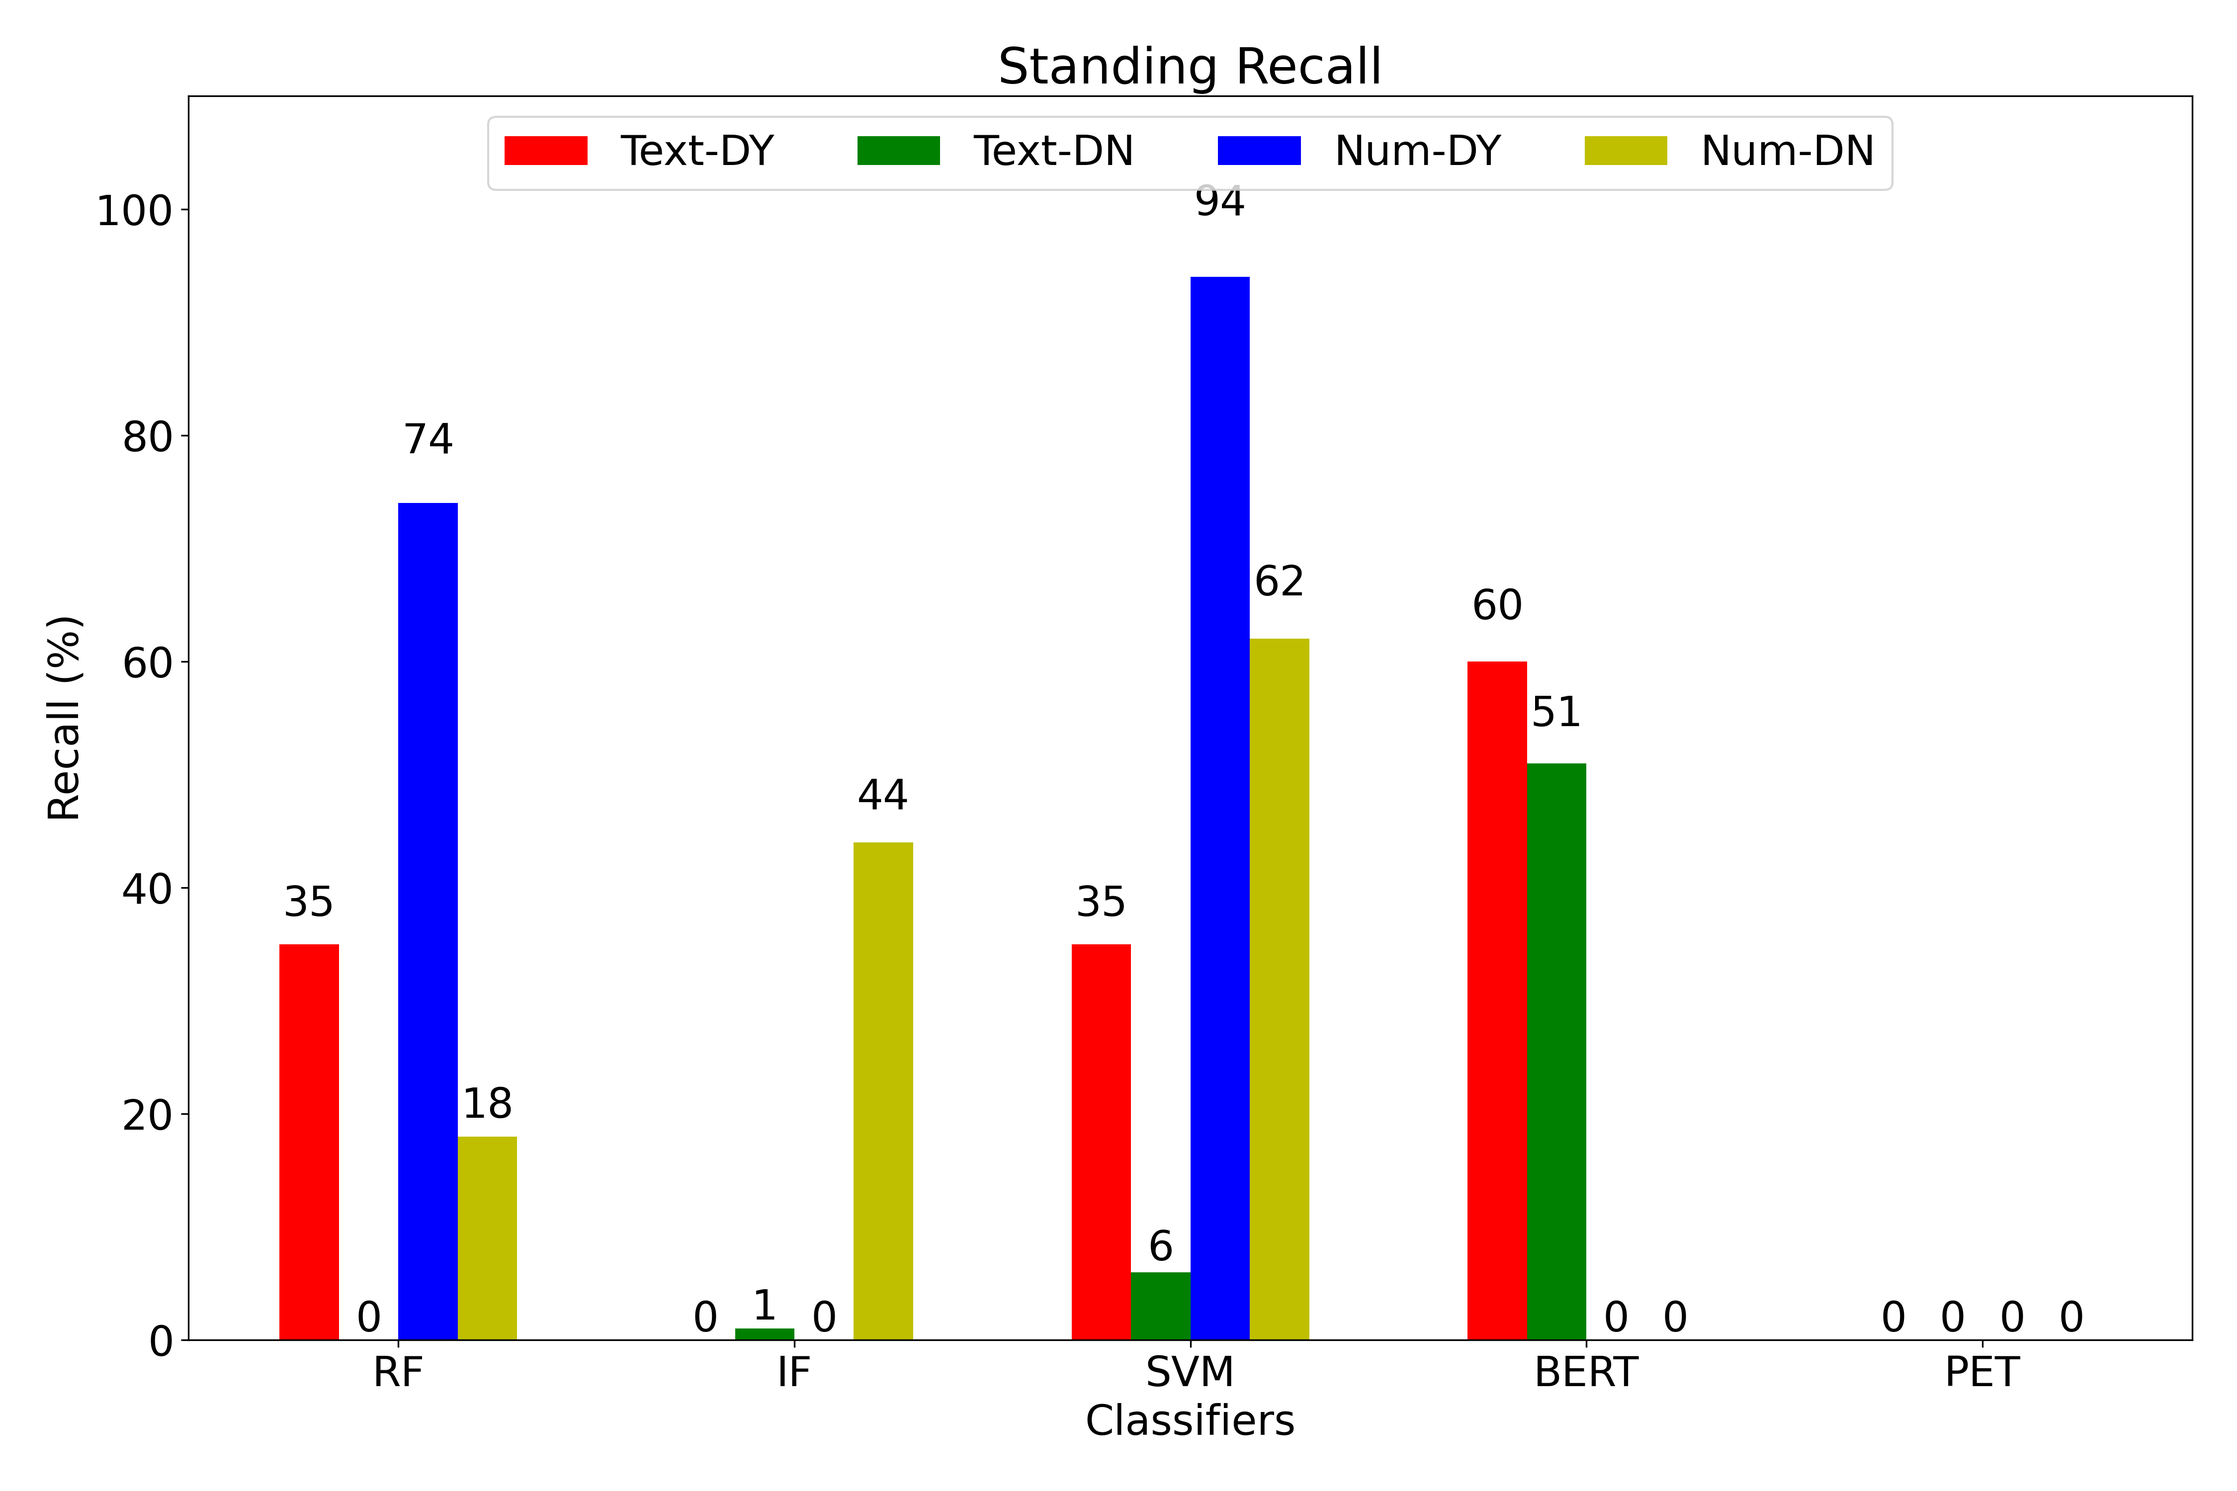
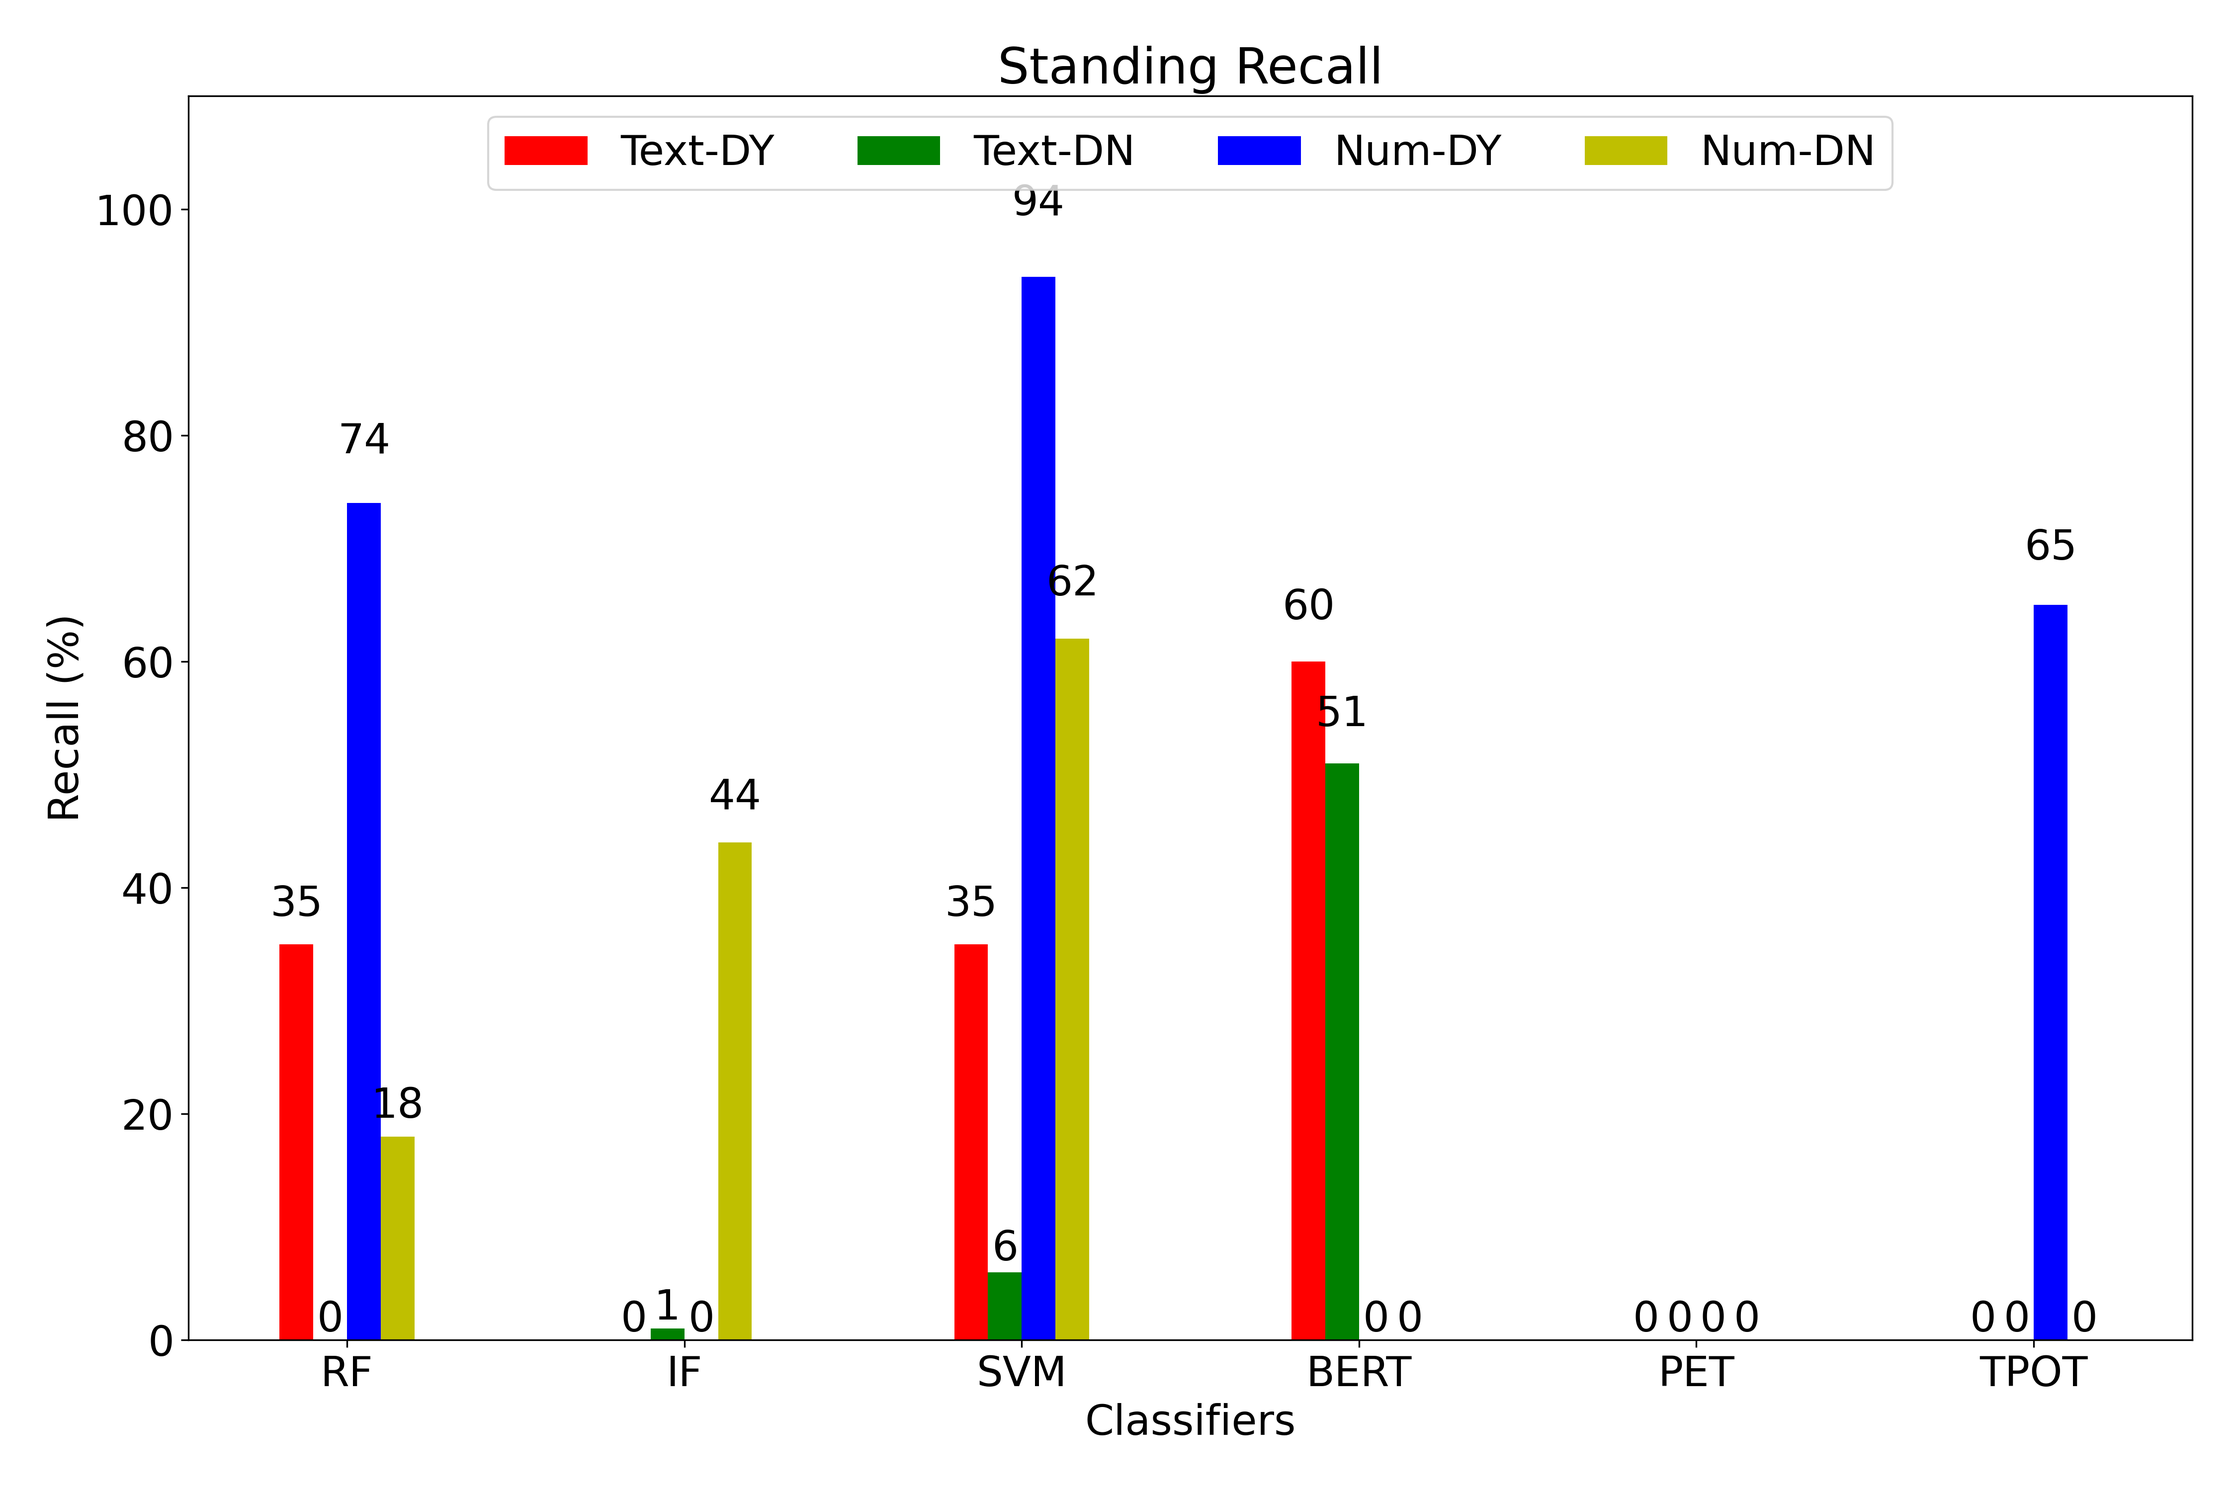
results for tpot

diff --git a/main.py b/main.py
@@ -2,9 +2,9 @@ import numpy as np
 import pandas as pd
 import argparse, json, pickle
 from collections import Counter
-from utils import DataLoader, Classifier
 from team_themes import TeamStanding, TeamStreak
 from bert_utils import BertDataLoader, BertThemeClassifier
+from utils import DataLoader, Classifier, TpotThemeClassifier
 from transformers import AutoModelForSequenceClassification
 from sklearn.metrics import accuracy_score, f1_score, fbeta_score, precision_score, recall_score, classification_report
 
@@ -74,9 +74,9 @@ def main(FTR='text', CLF='rf', THEME='streak', DOWNSAMPLE=False, SAVE_TO_DISK=Fa
 
         if CLF == 'bert':
             print('Training BERT model...')
-            trained_model, tokenizer = clf_obj.train(dataset)
+            model, tokenizer = clf_obj.train(dataset)
             model_path = f"models/{THEME}/{CLF}-down_{'yes' if DOWNSAMPLE else 'no'}"
-            trained_model.save_pretrained(model_path)
+            model.save_pretrained(model_path)
             tokenizer.save_pretrained(model_path)
             print(f'Saved model to {model_path}')
 
@@ -91,8 +91,15 @@ def main(FTR='text', CLF='rf', THEME='streak', DOWNSAMPLE=False, SAVE_TO_DISK=Fa
         print(Counter(test_pred))
 
     else:
-        clf_obj = Classifier(CLF)
-        dl_obj = DataLoader(ftr_type=FTR, downsample=DOWNSAMPLE)
+        if CLF == 'tpot':
+            print('This is using tpot model...')
+            assert FTR == 'num', 'TPOT only works with numerical features'
+            assert DOWNSAMPLE == True, 'TPOT only works with downsampling (as of now)'
+            clf_obj = TpotThemeClassifier(theme=THEME)
+            dl_obj = DataLoader(ftr_type=FTR, downsample=DOWNSAMPLE)
+        else:
+            clf_obj = Classifier(CLF)
+            dl_obj = DataLoader(ftr_type=FTR, downsample=DOWNSAMPLE)
 
         train_x, train_y, val_x, val_y, test_x, test_y = dl_obj.prep_data(all_data)
         print(f"Train: {train_x.shape} {train_y.shape}\tVal: {val_x.shape} {val_y.shape}\tTest: {test_x.shape} {test_y.shape}")
@@ -107,12 +114,11 @@ def main(FTR='text', CLF='rf', THEME='streak', DOWNSAMPLE=False, SAVE_TO_DISK=Fa
         pickle.dump(model, open(f'models/{THEME}/{CLF}-{FTR}-down_{"yes" if DOWNSAMPLE else "no"}.pkl', 'wb'))
 
         print('Predicting...')
-        # val_pred = clf_obj.predict(model, val_x)
-        test_pred = clf_obj.predict(model, test_x)
+        trained_model = pickle.load(open(f'models/{THEME}/{CLF}-{FTR}-down_{"yes" if DOWNSAMPLE else "no"}.pkl', 'rb'))
+        test_pred = clf_obj.predict(trained_model, test_x)
 
     np.save(open(f'preds/{THEME}/{CLF}-{FTR}-down_{"yes" if DOWNSAMPLE else "no"}.npy', 'wb'), test_pred)
     print('Calculating performance...')
-    # val_res_dict, val_clf_report = clf_obj.get_clf_report(val_y, val_pred)
     test_res_dict, test_clf_report = get_clf_report(test_y, test_pred)
 
     test_res = {}
@@ -122,8 +128,6 @@ def main(FTR='text', CLF='rf', THEME='streak', DOWNSAMPLE=False, SAVE_TO_DISK=Fa
             "test": {f"{k}": v for k, v in dict(Counter(test_y)).items()}
         }
 
-    # print(f'Validation results: {val_res_dict}')
-    # print(f'Validation classification report: {val_clf_report}')
     print(f'Test results: {test_res_dict}')
     print(f'Test classification report: {test_clf_report}')
 
@@ -133,17 +137,18 @@ def main(FTR='text', CLF='rf', THEME='streak', DOWNSAMPLE=False, SAVE_TO_DISK=Fa
 
 if __name__ == "__main__":
     argParser = argparse.ArgumentParser()
+    argParser.add_argument("-std", "--std", help="save data to disk", action="store_true")
+    argParser.add_argument("-down", "--down", help="do downsampling", action="store_true")
+    argParser.add_argument("-aug", "--aug", help="augment data for pet training", action="store_true")
     argParser.add_argument("-ftr", "--ftr", help="feature type: numerical or textual", default="text", choices=["text", "num"])
-    argParser.add_argument("-clf", "--clf", help="classification algorithm", default="rf", choices=["rf", "svm", "bert", "if", "pet"])
-    argParser.add_argument("-do_down", "--do_down", help="do downsampling", action="store_true")
+    argParser.add_argument("-clf", "--clf", help="classification algorithm", default="rf", \
+                            choices=["rf", "svm", "bert", "if", "pet", 'tpot'])
     argParser.add_argument("-theme", "--theme", help="across-event theme", default='standing', \
                             choices=['streak', 'standing', 'double', 'average'])
-    argParser.add_argument("-std", "--std", help="save data to disk", action="store_true")
-    argParser.add_argument("-aug", "--aug", help="augment data for pet training", action="store_true")
 
     args = argParser.parse_args()
     print(args)
 
-    main(args.ftr, args.clf, args.theme, args.do_down, args.std, args.aug)
+    main(args.ftr, args.clf, args.theme, args.down, args.std, args.aug)
     print("Done!!!")
 

diff --git a/tpot_main.py b/tpot_main.py
@@ -1,0 +1,81 @@
+import argparse
+from numpy import std
+import pandas as pd
+from utils import DataLoader
+from tpot import TPOTClassifier
+from collections import Counter
+from team_themes import TeamStanding, TeamStreak
+from sklearn.metrics import accuracy_score, f1_score, fbeta_score, precision_score, recall_score, classification_report
+
+
+def get_clf_report(true, pred):
+    mf1 = float(f"{f1_score(true, pred, average='macro'):.2f}")
+    acc = float(f"{accuracy_score(true, pred):.2f}")
+    f1 = float(f"{f1_score(true, pred):.2f}")
+    prec = float(f"{precision_score(true, pred):.2f}")
+    rec = float(f"{recall_score(true, pred):.2f}")
+    fbeta = float(f"{fbeta_score(true, pred, beta=2):.2f}")
+    return {
+        'mf1': mf1,
+        'acc': acc,
+        'f1': f1,
+        'prec': prec,
+        'rec': rec,
+        'fbeta': fbeta
+    }, classification_report(true, pred)
+
+
+def save_to_disk(train_x, train_y, val_x, val_y, test_x, test_y, THEME, DOWN=False):
+    print('Saving data to disk into csv...')
+    num_ftrs = train_x.shape[1]
+    train = pd.DataFrame({"text": train_x, "label": list(train_y)})
+    val = pd.DataFrame({"text": val_x, "label": list(val_y)})
+    test = pd.DataFrame({"text": test_x, "label": list(test_y)})
+    train = train.sample(frac=1, random_state=42).reset_index(drop=True)
+    val = val.sample(frac=1, random_state=42).reset_index(drop=True)
+    test = test.sample(frac=1, random_state=42).reset_index(drop=True)
+    train.to_csv(f'data/{THEME}/train_text{"_down" if DOWN else ""}.csv', index=False, header=False)
+    val.to_csv(f'data/{THEME}/validation_text{"_down" if DOWN else ""}.csv', index=False, header=False)
+    test.to_csv(f'data/{THEME}/test_text{"_down" if DOWN else ""}.csv', index=False, header=False)
+
+
+def main(THEME='streak', DOWN=False, STD=False):
+    FTR = 'num'
+    if THEME == 'streak':
+        theme_obj = TeamStreak(FTR)
+    elif THEME == 'standing':
+        theme_obj = TeamStanding(FTR)
+
+    print('Processing data...')
+    all_data, aug_texts = theme_obj.get_theme_train_val_test_data()
+    dl_obj = DataLoader(ftr_type=FTR, downsample=DOWN)
+    train_x, train_y, val_x, val_y, test_x, test_y = dl_obj.prep_data(all_data)
+    print(f"Train: {train_x.shape} {train_y.shape}\tVal: {val_x.shape} {val_y.shape}\tTest: {test_x.shape} {test_y.shape}")
+    print(Counter(train_y), Counter(val_y), Counter(test_y))
+
+    if STD:
+        # save_to_disk(train_x, train_y, val_x, val_y, test_x, test_y, THEME, DOWN)
+        return
+
+    print('Finding best classifier with TPOT...')
+    tpot = TPOTClassifier(generations=5, population_size=50, verbosity=2, random_state=42)
+    tpot.fit(train_x, train_y)
+    print(tpot.score(val_x, val_y))
+    tpot.export(f'tpot_exports/{THEME}{"_down" if DOWN else ""}.py')
+    print(tpot.score(test_x, test_y))
+
+    return "Done!!"
+
+
+if __name__ == "__main__":
+    argParser = argparse.ArgumentParser()
+    argParser.add_argument("-do_down", "--do_down", help="do downsampling", action="store_true")
+    argParser.add_argument("-theme", "--theme", help="across-event theme", default='standing', \
+                            choices=['streak', 'standing', 'double', 'average'])
+    argParser.add_argument("-std", "--std", help="save data to disk", action="store_true")
+
+    args = argParser.parse_args()
+    print(args)
+
+    main(args.theme, args.do_down, args.std)
+    print("Done!!!")

diff --git a/utils.py b/utils.py
@@ -15,7 +15,6 @@ class SentenceEmbedder:
         return self.encoder.encode(texts)
 
 
-
 class DataLoader:
     def __init__(self, ftr_type='text', downsample=False):
         self.ftr_type = ftr_type
@@ -88,3 +87,49 @@ class Classifier:
         else:
             return model.predict(X)
 
+
+class TpotThemeClassifier:
+    def __init__(self, theme='streak') -> None:
+        self.theme = theme
+    
+    def train_streak(self, X, y):
+        print('Training streak classifier...')
+        from sklearn.ensemble import RandomForestClassifier
+
+        exported_pipeline = RandomForestClassifier(bootstrap=True, criterion="gini", max_features=0.45, min_samples_leaf=13, min_samples_split=17, n_estimators=100)
+        # Fix random state in exported estimator
+        if hasattr(exported_pipeline, 'random_state'):
+            setattr(exported_pipeline, 'random_state', 42)
+        exported_pipeline.fit(X, y)
+        return exported_pipeline
+
+    def train_standing(self, X, y):
+        print('Training standing classifier...')
+        from sklearn.cluster import FeatureAgglomeration
+        from sklearn.ensemble import ExtraTreesClassifier
+        from sklearn.naive_bayes import GaussianNB
+        from sklearn.pipeline import make_pipeline
+        from sklearn.preprocessing import PolynomialFeatures
+        from tpot.builtins import StackingEstimator
+        from tpot.export_utils import set_param_recursive
+
+        exported_pipeline = make_pipeline(
+            PolynomialFeatures(degree=2, include_bias=False, interaction_only=False),
+            StackingEstimator(estimator=GaussianNB()),
+            FeatureAgglomeration(affinity="manhattan", linkage="complete"),
+            ExtraTreesClassifier(bootstrap=True, criterion="gini", max_features=0.15000000000000002, min_samples_leaf=18, min_samples_split=6, n_estimators=100)
+        )
+        # Fix random state for all the steps in exported pipeline
+        set_param_recursive(exported_pipeline.steps, 'random_state', 42)
+
+        exported_pipeline.fit(X, y)
+        return exported_pipeline
+
+    def train(self, X, y):
+        if self.theme == 'streak':
+            return self.train_streak(X, y)
+        elif self.theme == 'standing':
+            return self.train_standing(X, y)
+
+    def predict(self, model, X):
+        return model.predict(X)

diff --git a/tpot_exports/standing_down.py b/tpot_exports/standing_down.py
@@ -1,0 +1,29 @@
+import numpy as np
+import pandas as pd
+from sklearn.cluster import FeatureAgglomeration
+from sklearn.ensemble import ExtraTreesClassifier
+from sklearn.model_selection import train_test_split
+from sklearn.naive_bayes import GaussianNB
+from sklearn.pipeline import make_pipeline, make_union
+from sklearn.preprocessing import PolynomialFeatures
+from tpot.builtins import StackingEstimator
+from tpot.export_utils import set_param_recursive
+
+# NOTE: Make sure that the outcome column is labeled 'target' in the data file
+tpot_data = pd.read_csv('PATH/TO/DATA/FILE', sep='COLUMN_SEPARATOR', dtype=np.float64)
+features = tpot_data.drop('target', axis=1)
+training_features, testing_features, training_target, testing_target = \
+            train_test_split(features, tpot_data['target'], random_state=42)
+
+# Average CV score on the training set was: 0.6362695388014361
+exported_pipeline = make_pipeline(
+    PolynomialFeatures(degree=2, include_bias=False, interaction_only=False),
+    StackingEstimator(estimator=GaussianNB()),
+    FeatureAgglomeration(affinity="manhattan", linkage="complete"),
+    ExtraTreesClassifier(bootstrap=True, criterion="gini", max_features=0.15000000000000002, min_samples_leaf=18, min_samples_split=6, n_estimators=100)
+)
+# Fix random state for all the steps in exported pipeline
+set_param_recursive(exported_pipeline.steps, 'random_state', 42)
+
+exported_pipeline.fit(training_features, training_target)
+results = exported_pipeline.predict(testing_features)

diff --git a/plot_res.py b/plot_res.py
@@ -4,9 +4,9 @@ import matplotlib.pyplot as plt
 
 def plot_res(res_dict, theme, metric):
 
-    N = 5
+    N = 6
     ind = np.arange(N)
-    width = 0.15
+    width = 0.10
 
     fig = plt.figure(figsize=(15, 10))
     ax = fig.add_subplot(111)
@@ -47,7 +47,7 @@ def plot_res(res_dict, theme, metric):
 
 for theme in ['streak', 'standing']:
 
-    clfs = ['rf', 'if', 'svm', 'bert', 'pet']
+    clfs = ['rf', 'if', 'svm', 'bert', 'pet', 'tpot']
     ftrs = ['text', 'num']
 
     f1s, accs, mf1s, precs, recs, fbetas = {}, {}, {}, {}, {}, {}
@@ -62,6 +62,8 @@ for theme in ['streak', 'standing']:
                 elif clf == 'if' and do_down == 'yes':
                     clf_results = empty_js
                 elif (clf == 'pet' and ftr == 'num') or (clf == 'pet' and do_down == 'yes'):
+                    clf_results = empty_js
+                elif (clf == 'tpot' and ftr == 'text') or (clf == 'tpot' and do_down == 'no'):
                     clf_results = empty_js
                 else:
                     js = json.load(open(f"results/{theme}/{clf}-{ftr}-down_{do_down}.json"))

diff --git a/tpot_exports/streak_down.py b/tpot_exports/streak_down.py
@@ -1,0 +1,19 @@
+import numpy as np
+import pandas as pd
+from sklearn.ensemble import RandomForestClassifier
+from sklearn.model_selection import train_test_split
+
+# NOTE: Make sure that the outcome column is labeled 'target' in the data file
+tpot_data = pd.read_csv('PATH/TO/DATA/FILE', sep='COLUMN_SEPARATOR', dtype=np.float64)
+features = tpot_data.drop('target', axis=1)
+training_features, testing_features, training_target, testing_target = \
+            train_test_split(features, tpot_data['target'], random_state=42)
+
+# Average CV score on the training set was: 0.6063296737268304
+exported_pipeline = RandomForestClassifier(bootstrap=True, criterion="gini", max_features=0.45, min_samples_leaf=13, min_samples_split=17, n_estimators=100)
+# Fix random state in exported estimator
+if hasattr(exported_pipeline, 'random_state'):
+    setattr(exported_pipeline, 'random_state', 42)
+
+exported_pipeline.fit(training_features, training_target)
+results = exported_pipeline.predict(testing_features)
